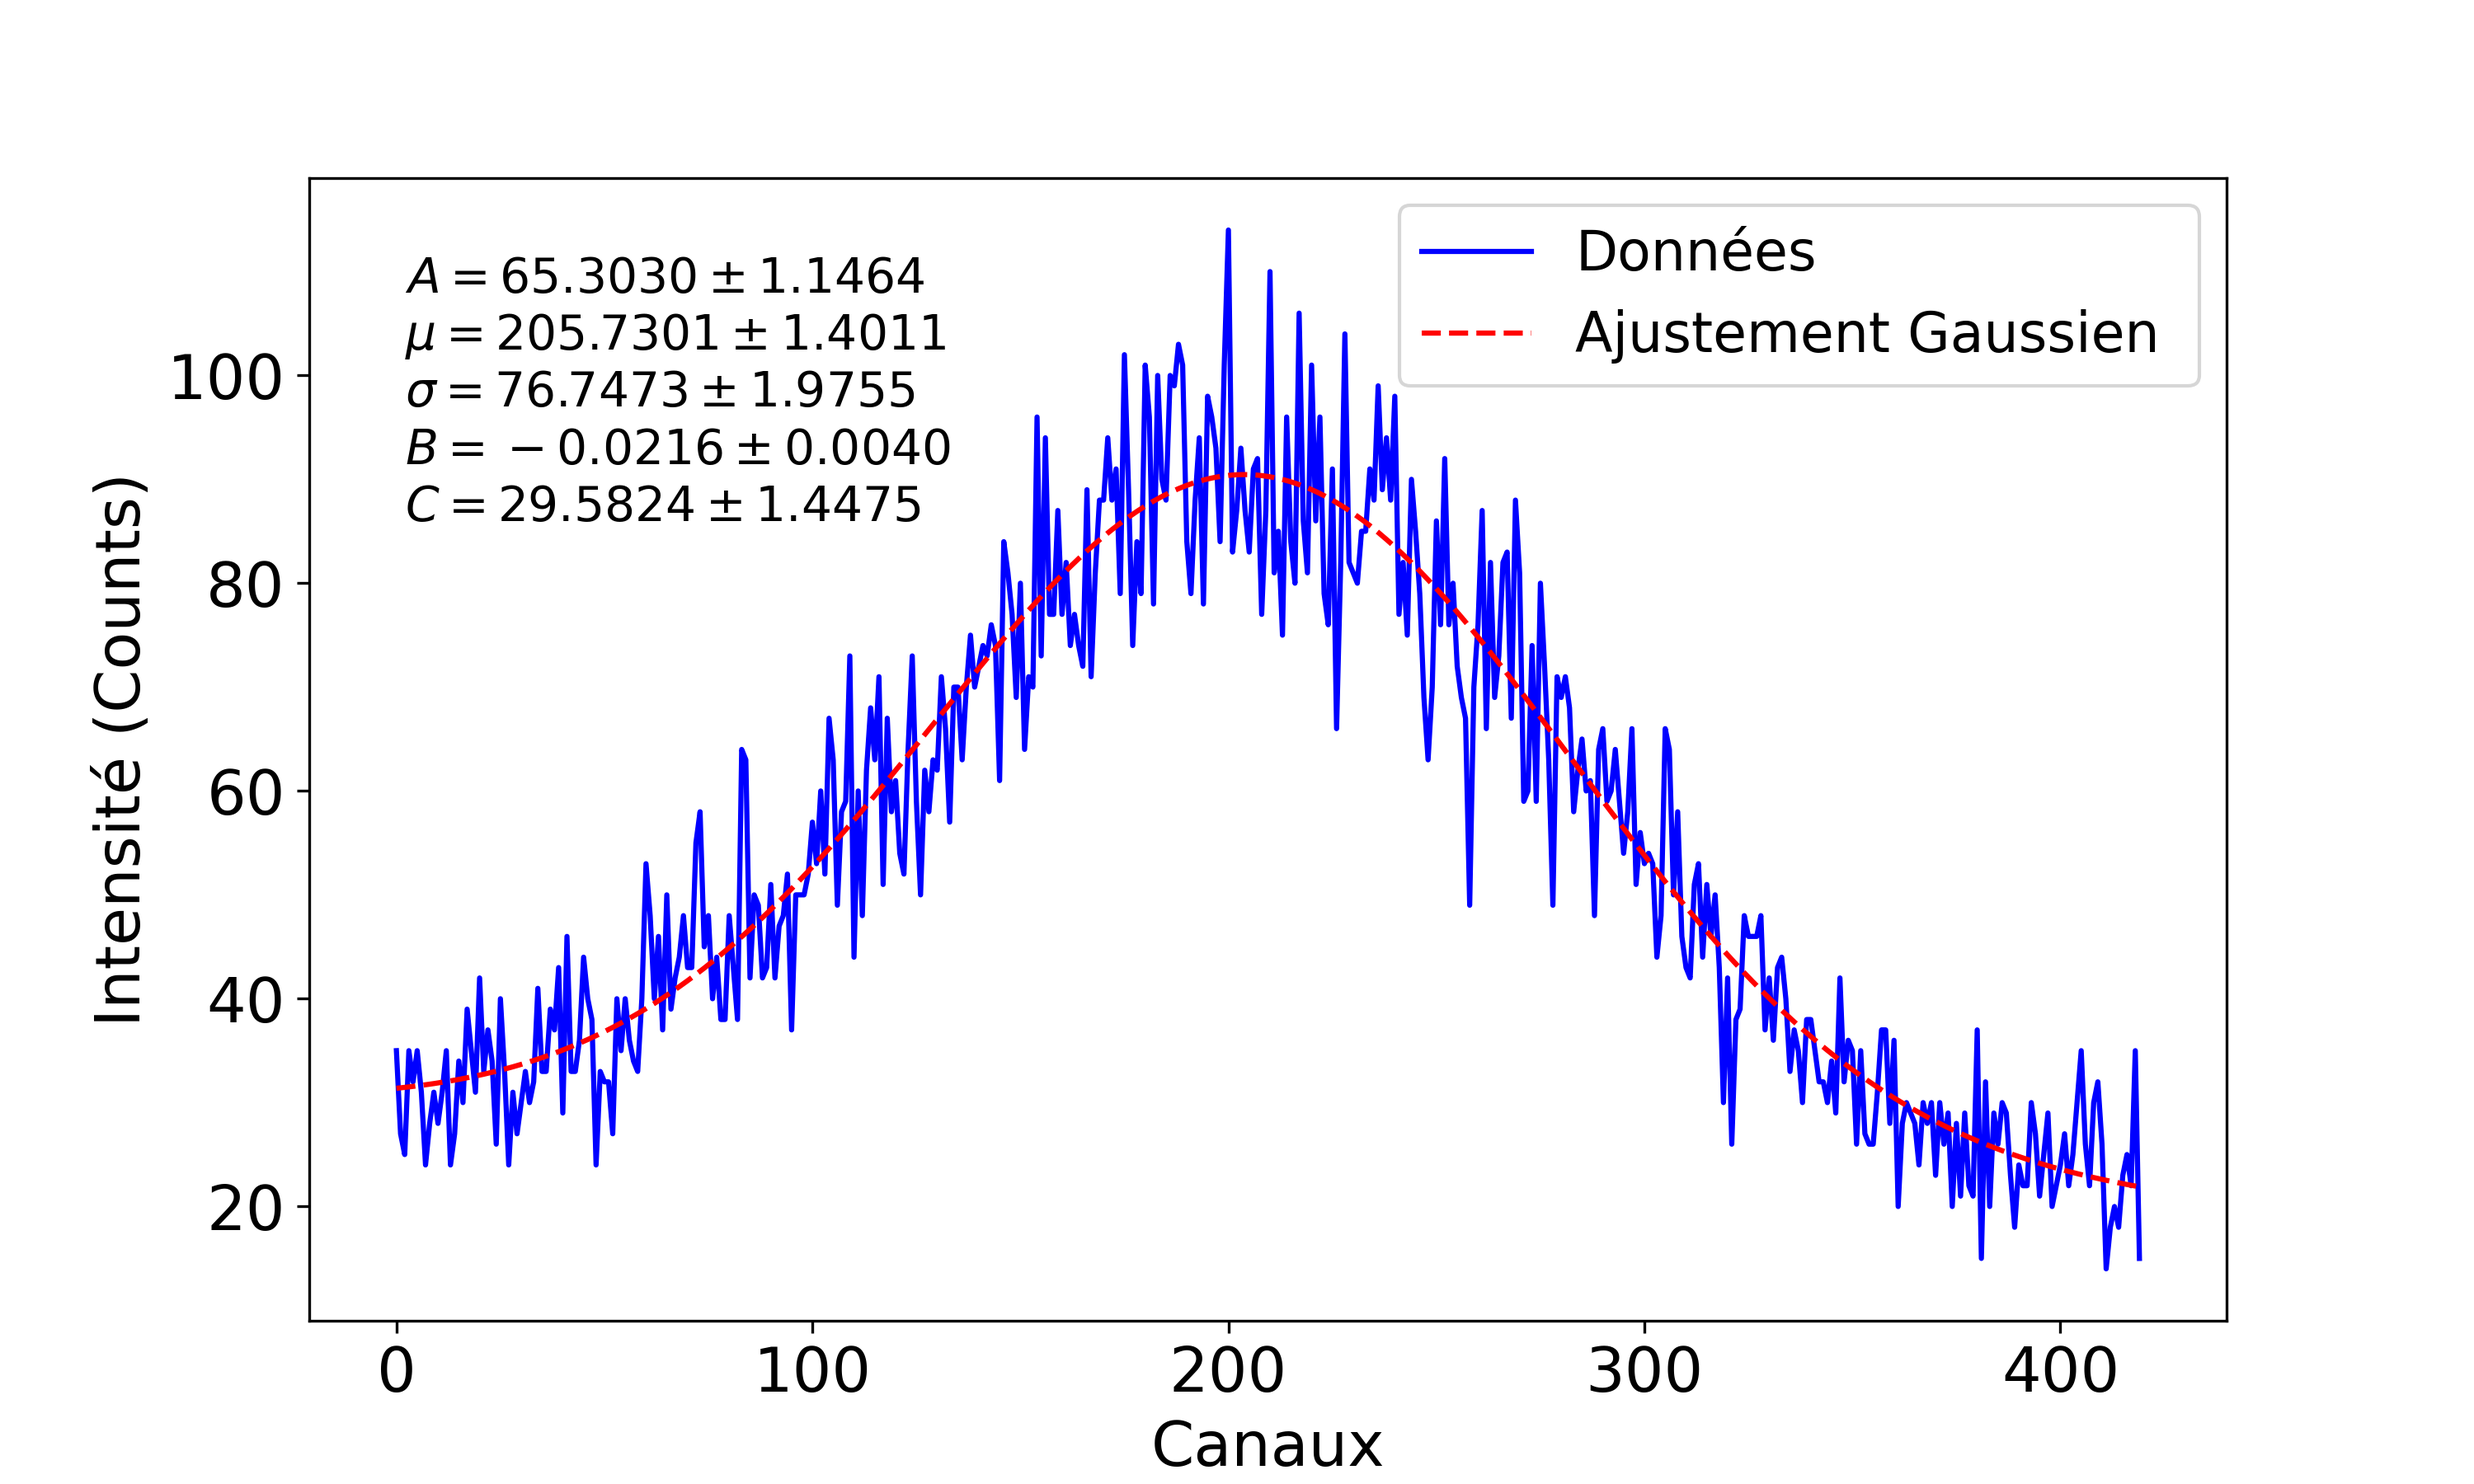
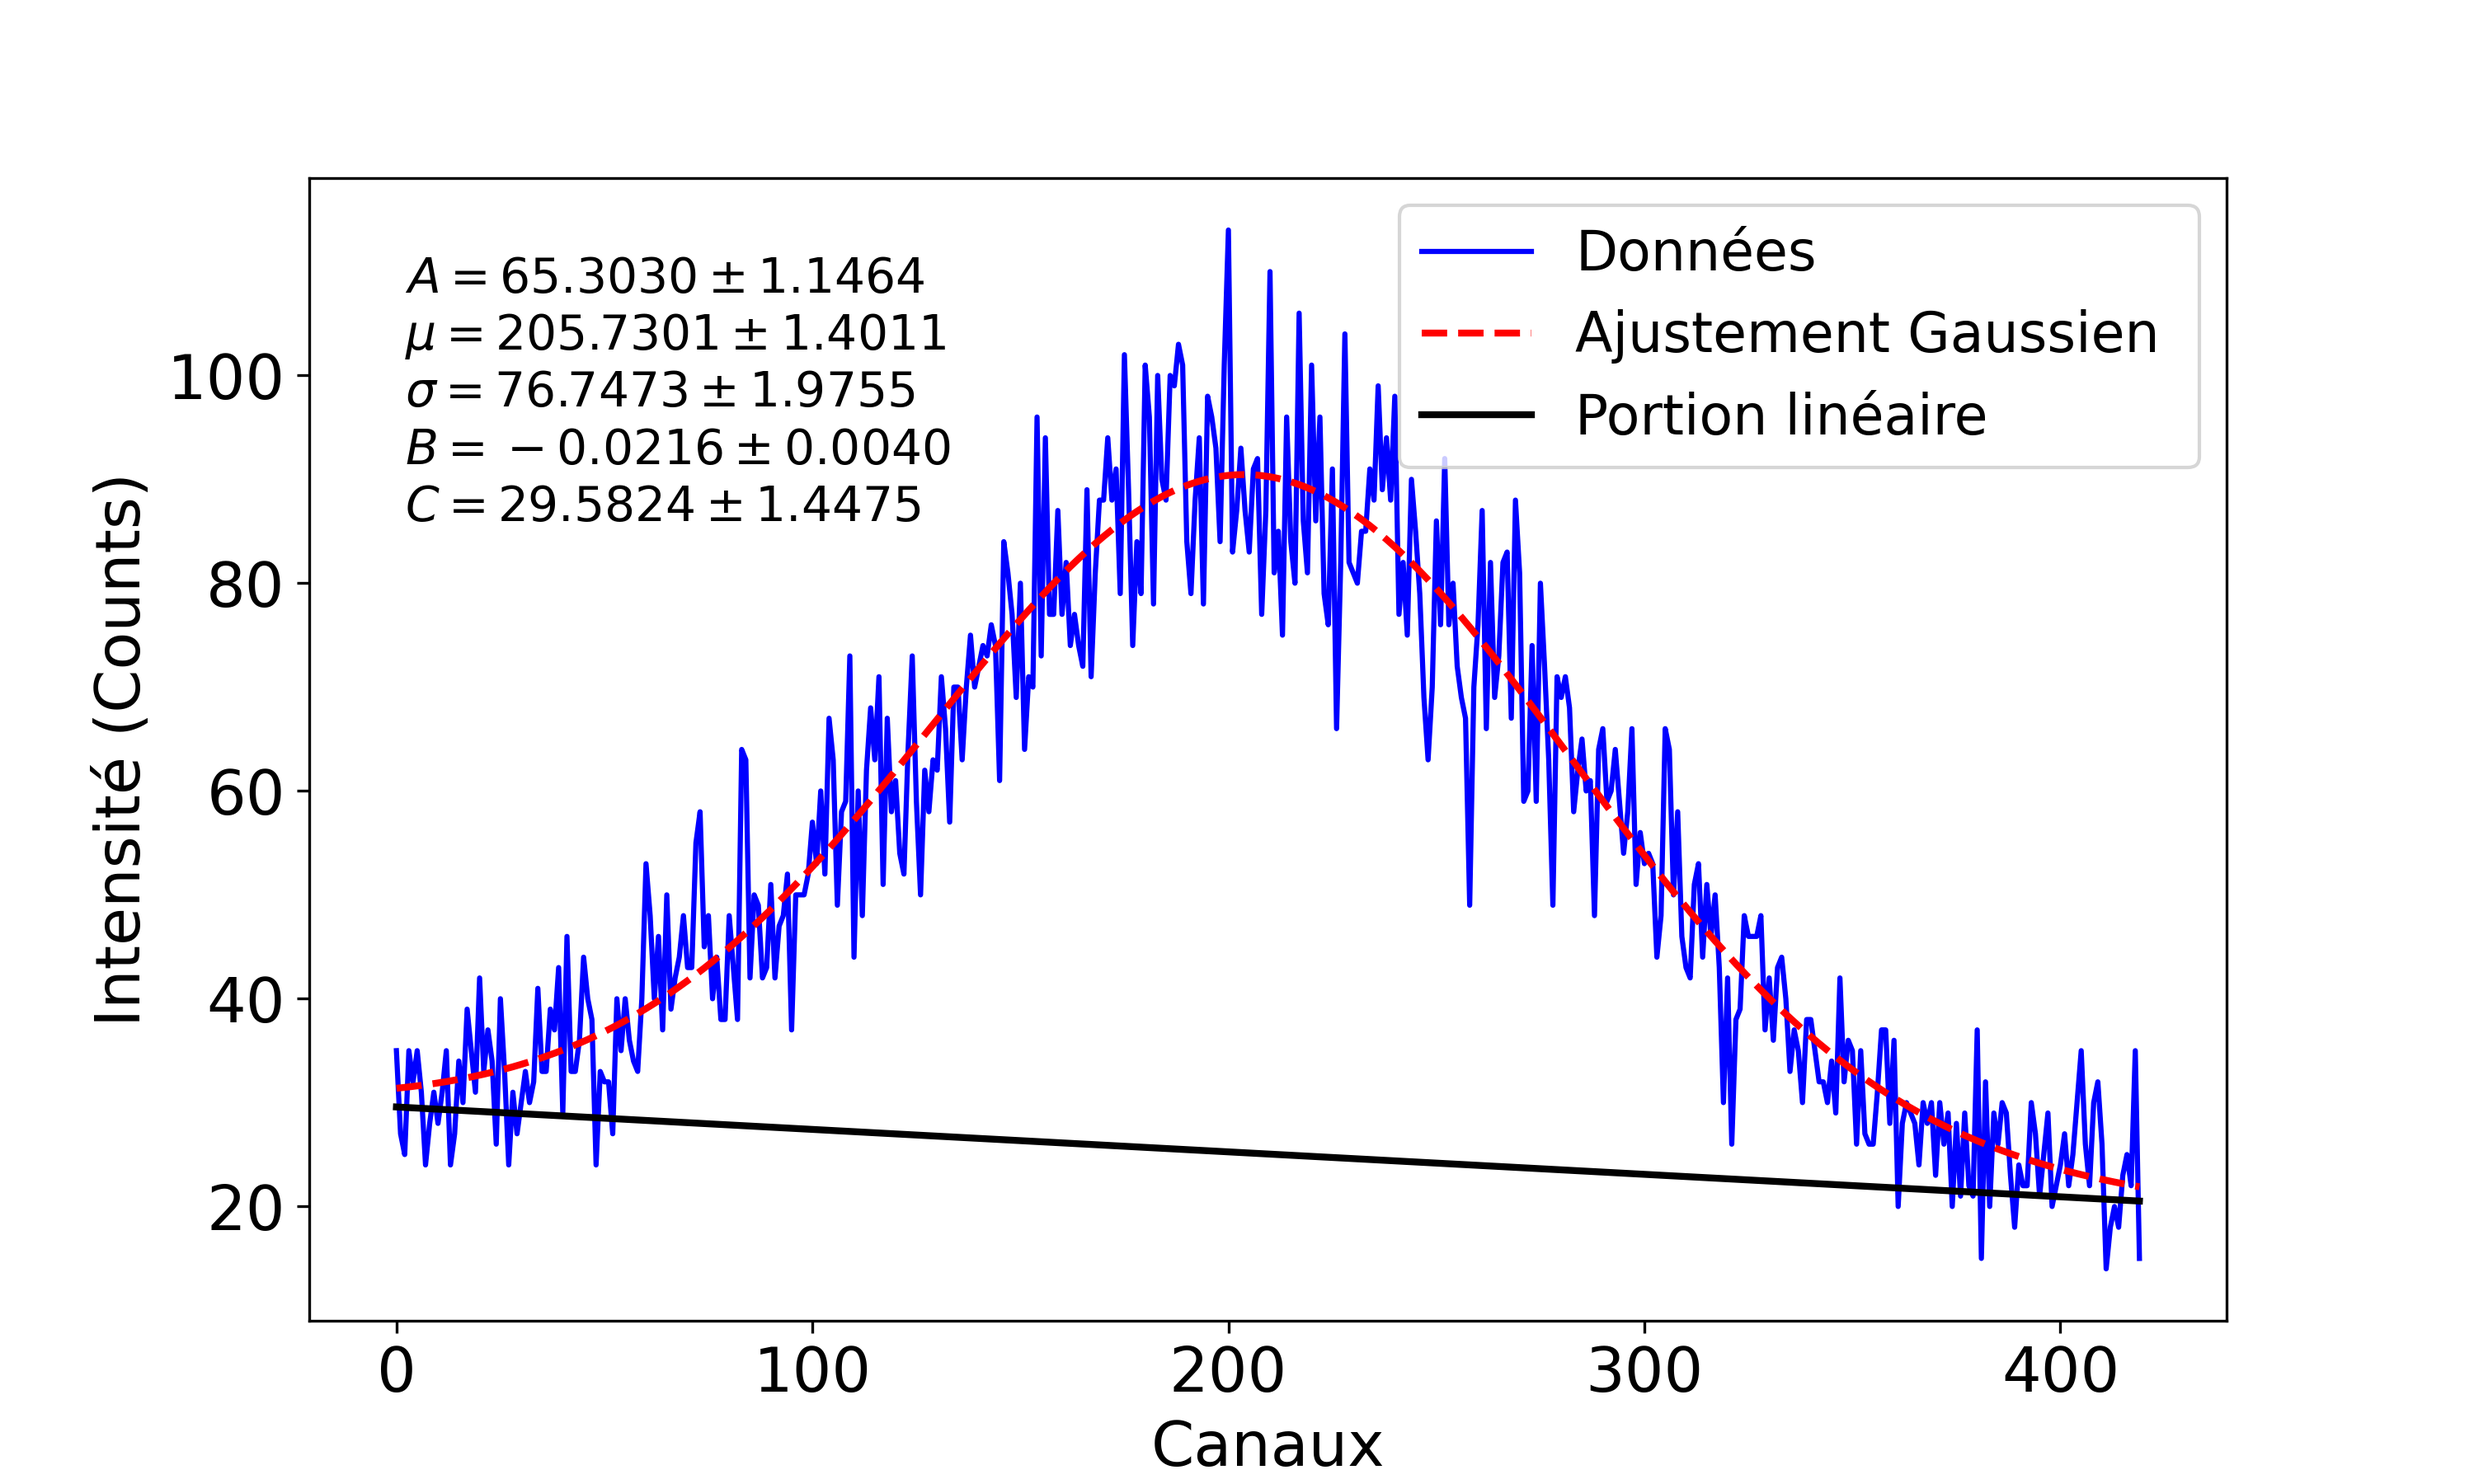
push

diff --git a/PHY-3004/Annihilation/x.py b/PHY-3004/Annihilation/x.py
@@ -39,12 +39,19 @@ if True:
         # Ajustement des tailles de caractères pour les axes
         plt.xticks(fontsize=18)
         plt.yticks(fontsize=18)
-        plt.show()
+        plt.tight_layout
+        plt.show(block=False)
+
+        # Pause for 5 seconds
+        plt.pause(1)
+
+        # Close the plot
+        plt.close('all')
 
 
 data = load_text(sources[0])
-Na22_data = load_text(sources[1])
-#Na22_data = load_text(sources[2])
+Na22_data_mobile = load_text(sources[1])
+Na22_data_fixe = load_text(sources[2])
 
 
 
@@ -58,7 +65,9 @@ Na22_data = load_text(sources[1])
 # Définir la fonction gaussienne
 def gaussienne(x, A, mu, sigma, B, C):
     return A * np.exp(-((x - mu) ** 2) / (2 * sigma ** 2)) + B * x + C
-
+# Définir la fonction gaussienne
+def linear(x, a, b):
+    return a*x+b
 # Function to perform the Gaussian fit and calculate FWHM
 def fit_gaussian(data, title, source_pic, p0=None, lower_bound=0):
     x = np.arange(len(data))  # Create an x-axis corresponding to the indices of the data
@@ -80,7 +89,8 @@ def fit_gaussian(data, title, source_pic, p0=None, lower_bound=0):
     # Tracer le résultat
     plt.figure(figsize=(10, 6))
     plt.plot(x, data, label="Données", color='blue')
-    plt.plot(x, gaussienne(x, *params), label=f"{title}", color='red', linestyle='--')
+    plt.plot(x, gaussienne(x, *params), label=f"{title}", color='red', linestyle='--',  linewidth=2)
+    plt.plot(x, linear(x, *(B, C)), label=f"Portion linéaire", color='black', linestyle='-', linewidth=2)
 
     plt.xlabel('Canaux', fontsize=18)  
     plt.ylabel('Intensité (Counts)', fontsize=18)
@@ -95,7 +105,14 @@ def fit_gaussian(data, title, source_pic, p0=None, lower_bound=0):
     save_path="PHY-3004/Annihilation/Figures"  
     save_file = os.path.join(save_path, f"{source_pic.replace(' ', '_')}.png")
     plt.savefig(save_file, dpi=300)
-    plt.show()
+    plt.tight_layout
+    plt.show(block=False)
+
+    # Pause for 5 seconds
+    plt.pause(1)
+
+    # Close the plot
+    plt.close('all')
 
     from scipy.integrate import quad
     print(x[0], x[-1],params[0],params[1],params[2], A_err, mu_err, sigma_err)
@@ -136,23 +153,26 @@ Na22_511_bounds = (1110, 1550)
 Na22_1275_bounds = (2900, 3500)
 
 # Isolate the peaks using the defined bounds
-Na22_data_511 = Na22_data[Na22_511_bounds[0]:Na22_511_bounds[1]]
-Na22_data_1275 = Na22_data[Na22_1275_bounds[0]:Na22_1275_bounds[1]]
+Na22_data_511_fixe = Na22_data_fixe[Na22_511_bounds[0]:Na22_511_bounds[1]]
+Na22_data_1275_fixe = Na22_data_fixe[Na22_1275_bounds[0]:Na22_1275_bounds[1]]
 
-
+Na22_data_511_mobile = Na22_data_mobile[Na22_511_bounds[0]:Na22_511_bounds[1]]
+Na22_data_1275_mobile = Na22_data_mobile[Na22_1275_bounds[0]:Na22_1275_bounds[1]]
 
 position_Co57_122, FWHM_Co57_122 = fit_gaussian(Co57_data_122, "Ajustement Gaussien", 'Co57_122' ,p0=[max(Co57_data_122), np.argmax(Co57_data_122), 10, 0, 0], lower_bound=Co57_122_bounds[0])
 position_Cs137_661, FWHM_Cs137_661 = fit_gaussian(Cs137_data_661, "Ajustement Gaussien ",'Cs137_661' ,p0=[max(Cs137_data_661), np.argmax(Cs137_data_661), 10, 0, 0], lower_bound=Cs137_661_bounds[0])
 position_Co60_1173, FWHM_Co60_1173 = fit_gaussian(Co60_data_1173, "Ajustement Gaussien ",'Co60_1173', p0=[max(Co60_data_1173), np.argmax(Co60_data_1173), 10, 0, 0], lower_bound=Co60_1173_bounds[0])
 position_Co60_1333, FWHM_Co60_1333 = fit_gaussian(Co60_data_1333, "Ajustement Gaussien ", 'Co60_1333',p0=[max(Co60_data_1333), np.argmax(Co60_data_1333), 10, 0, 0], lower_bound=Co60_1333_bounds[0])
-position_Na22_511, FWHM_Na22_511 = fit_gaussian(Na22_data_511, "Ajustement Gaussien", 'Na22_511',p0=[max(Na22_data_511), np.argmax(Na22_data_511), 10, 0, 0], lower_bound=Na22_511_bounds[0])
-position_Na22_1275, FWHM_Na22_1275 = fit_gaussian(Na22_data_1275, "Ajustement Gaussien", 'Na22_511',p0=[max(Na22_data_1275), np.argmax(Na22_data_1275), 10, 0, 0], lower_bound=Na22_data_1275[0])
+position_Na22_511_fixe, FWHM_Na22_511_fixe = fit_gaussian(Na22_data_511_fixe, "Ajustement Gaussien", 'Na22_511_fixe',p0=[max(Na22_data_511_fixe), np.argmax(Na22_data_511_fixe), 10, 0, 0], lower_bound=Na22_511_bounds[0])
+position_Na22_1275_fixe, FWHM_Na22_1275_fixe = fit_gaussian(Na22_data_1275_fixe, "Ajustement Gaussien", 'Na22_1275_fixe',p0=[max(Na22_data_1275_fixe), np.argmax(Na22_data_1275_fixe), 10, 0, 0], lower_bound=Na22_1275_bounds[0])
 
 
+position_Na22_511_mobile, FWHM_Na22_511_mobile = fit_gaussian(Na22_data_511_mobile, "Ajustement Gaussien", 'Na22_511_mobile',p0=[max(Na22_data_511_mobile), np.argmax(Na22_data_511_mobile), 10, 0, 0], lower_bound=Na22_511_bounds[0])
+position_Na22_1275_mobile, FWHM_Na22_1275_mobile = fit_gaussian(Na22_data_1275_mobile, "Ajustement Gaussien", 'Na22_1275_mobile',p0=[max(Na22_data_1275_mobile), np.argmax(Na22_data_1275_mobile), 10, 0, 0], lower_bound=Na22_1275_bounds[0])
 
 # Définir une fonction linéaire pour le fit (sans intercept)
-def linear(x, a):
-    return a * x
+def linear(x, a, b):
+    return a * x+b
 
 # Positions des pics (canaux)
 
@@ -168,6 +188,7 @@ params, covariance = curve_fit(linear, positions, energies, sigma=fwhm_x, absolu
 
 # Extraire la pente du fit
 slope = params[0]
+b = params[1]
 
 # Calculer l'erreur standard du fit (écart-type)
 perr = np.sqrt(np.diag(covariance))
@@ -185,10 +206,10 @@ plt.errorbar(positions, energies, xerr=fwhm_x, fmt='o', label="Pics expérimenta
 plt.plot(x, linear(x, *params), label=f"Régression linéaire", color='black', linestyle='--')
 
 # Ajouter le texte avec l'équation de la régression et la valeur de $R^2$
-equation_text = f"$y = {slope:.4f} \cdot x$"
+equation_text = f"$y = {slope:.4f} \cdot x{b:.4f}$"
 r2_text = f"$R^2 = {r_squared:.4f}$"
-plt.text(0.5, 0.8, equation_text, transform=plt.gca().transAxes, fontsize=18, color='black')
-plt.text(0.5, 0.75, r2_text, transform=plt.gca().transAxes, fontsize=18, color='black')
+plt.text(0.05, 0.6, equation_text, transform=plt.gca().transAxes, fontsize=18, color='black')
+plt.text(0.05, 0.55, r2_text, transform=plt.gca().transAxes, fontsize=18, color='black')
 
 # Personnaliser le graphique
 plt.xlabel('Position du pic (canal)', fontsize=18)
@@ -199,9 +220,17 @@ plt.grid(True)
 
 # Ajuster la taille des graduations (ticks)
 plt.tick_params(axis='both', labelsize=18)
+plt.tight_layout
+save_path="PHY-3004/Annihilation/Figures/Fit_lin"  
 
-plt.show()
+plt.savefig(save_path, dpi=300)
+plt.show(block=False)
 
+    # Pause for 5 seconds
+plt.pause(1)
+
+    # Close the plot
+plt.close('all')
 
 # Afficher les résultats dans la console
 print(f"Pente de la régression linéaire (a) : {slope:.4f}")
@@ -260,13 +289,13 @@ f_Na22_pic1275, f_Na22_pic511 = 0.994, 1.78
 
 
 energies*=1000
-energies = np.append(energies, 511)
-positions = np.append(positions, position_Na22_511)
-fwhm_x = np.append(fwhm_x, FWHM_Na22_511)
+energies = np.append(energies, (511, 1275))
+positions = np.append(positions, (position_Na22_511_fixe, position_Na22_1275_fixe))
+fwhm_x = np.append(fwhm_x, (FWHM_Na22_511_fixe, FWHM_Na22_1275_fixe))
 # Affichage des résultats avec valeur absolue de l'écart et de l'écart en %
 for i in range(len(energies)):
-    position_ajustee = positions[i] * pente
-    fwhm_ajuste = fwhm_x[i] * pente
+    position_ajustee = positions[i] * pente+b
+    fwhm_ajuste = fwhm_x[i] * pente+b
     ecart = abs(position_ajustee - energies[i])  # Valeur absolue de l'écart
     ecart_pourcentage = abs((ecart / energies[i]) * 100)  # Valeur absolue de l'écart en %
 
